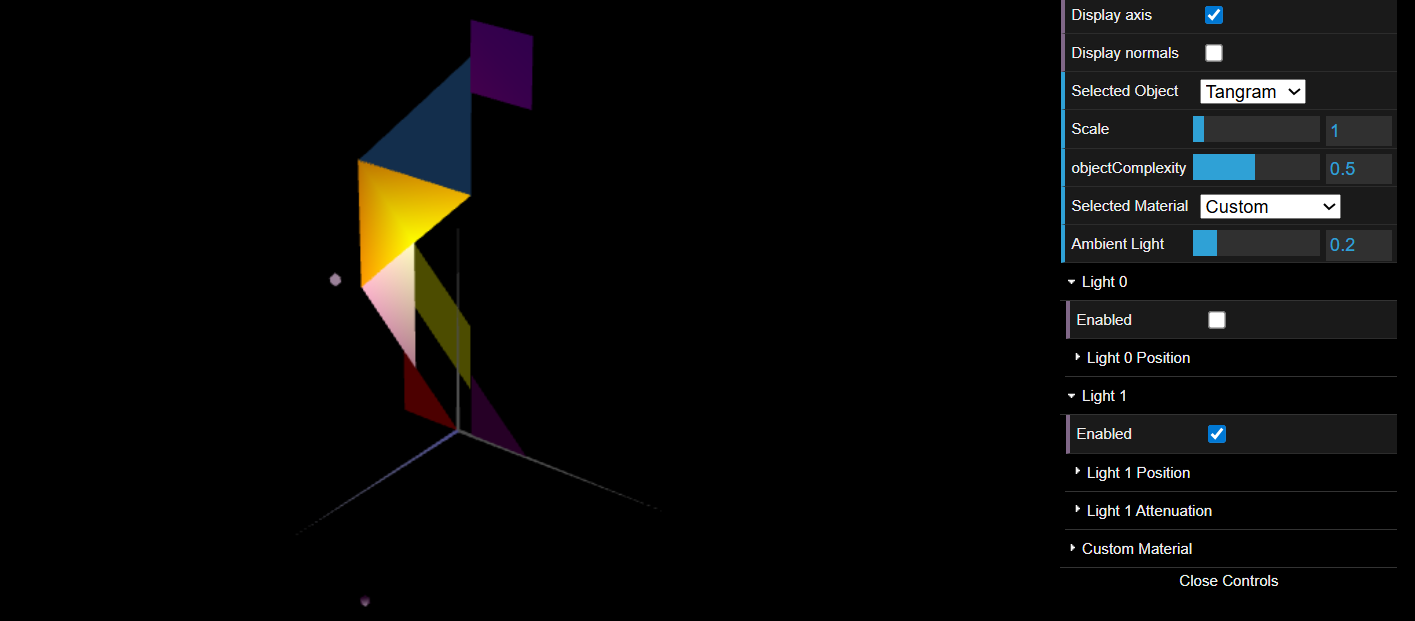
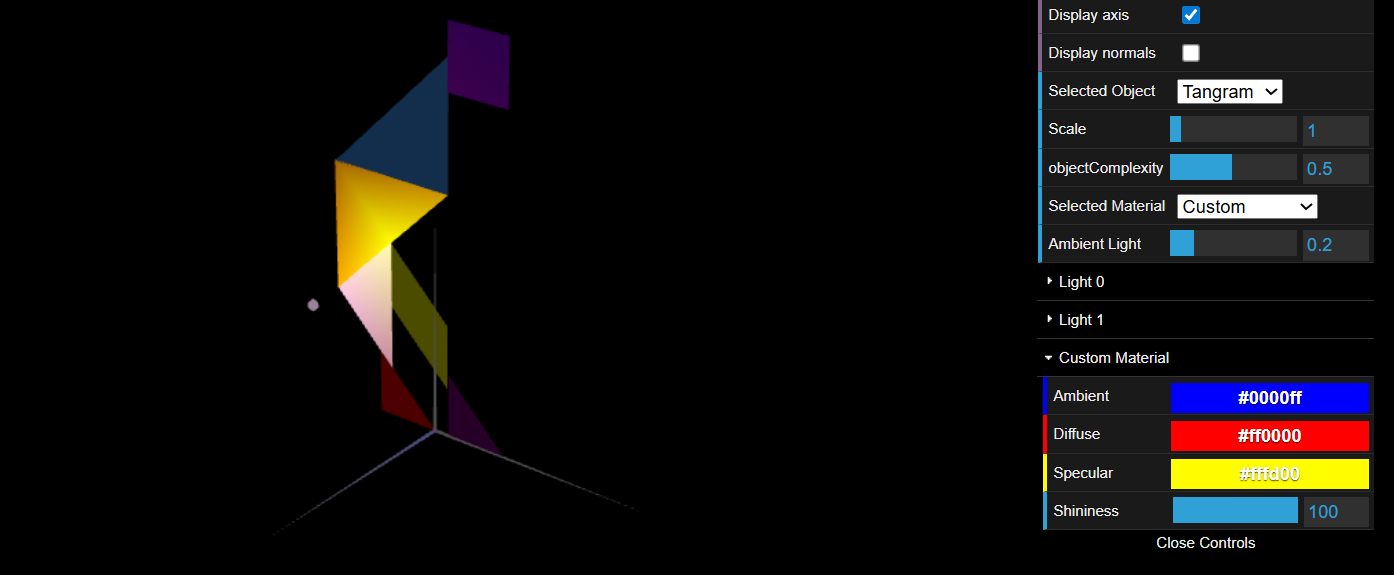
fix tp3 readme

Changed region(s): [[0.7403, 0.0, 0.9871, 0.9757], [0.2159, 0.0296, 0.401, 0.8278], [0.3702, 0.7983, 0.401, 0.8278]]

diff --git a/tp3/README.md b/tp3/README.md
@@ -6,13 +6,15 @@
 
 In the first part of this assignment, we updated the shapes we had previously defined (triangles, diamonds, and parallelograms) by adding normal vectors (`this.normals`). We also updated the `MyUnitCube` class. It was a good exercise to further understand how lighting affects surfaces in 3D space, since we had to define 24 vertices instead of 8. By grouping 4 vertices per face and duplicating them where they meet, we ensured each side possessed its own perpendicular normal vector. This allowed us to keep the sharp edges of the cube instead of having them smoothed out by the lighting. We also created a wood-like material in our scene to test on these objects.
 
-![Screenshot 1](screenshots/Captura%20de%20ecr%C3%A3%202026-03-11%20154127.png)
+![Screenshot 1](screenshots/cg-t1g5-tp3-1.png)
 
 Next, instead of just defining raw colors, we created and applied materials (`CGFappearance`) to our Tangram figure. In `MyTangram.js`, we instantiated specific materials for each piece by defining their ambient, diffuse, and specular components, as well as their shininess. Furthermore, as requested, we applied the `Custom` material to the `MyDiamond` sub-piece, allowing its lighting properties to be dynamically controlled via the user interface.
 
+![Screenshot 2](screenshots/cg-t1g5-tp3-2.png)
+
 Finally, we created a new class called `MyPrism`. Instead of hardcoding the vertices like we did for the previous shapes, we generated the prism algorithmically based on a given number of `slices` and `stacks`. We used trigonometric functions to calculate the coordinates and the normal vectors for each face. To ensure the prism had flat faces (Constant Shading) rather than a smoothed cylindrical appearance, we duplicated the vertices at the edges so that each face could maintain its strictly perpendicular normal vectors. Using the interface's normal visualization feature was a great help to debug and verify that all our normal vectors were pointing in the right directions.
 
-![Screenshot 2](screenshots/Captura%20de%20ecr%C3%A3%202026-03-12%20095525.png)
+![Screenshot 3](screenshots/cg-t1g5-tp3-3.png)
 
 In exercise 3, to conclude the tp3, we created the `MyCylinder` class based on our prism implementation. However, to achieve a smooth, curved appearance (Gouraud shading) instead of flat faces, we changed how the vertices and normals are handled. We stopped duplicating vertices at the edges, meaning adjacent faces now share the same vertex. Furthermore, we set the normal of each vertex to point radially outward from the center of the cylinder. This approach smooths out the lighting transitions across the edges.
 
